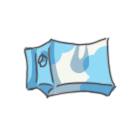
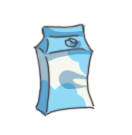
fixed ingredient usage behavior and uploaded new images

diff --git a/src/main/java/com/cafe/CafeSimulatorApp.java b/src/main/java/com/cafe/CafeSimulatorApp.java
@@ -112,7 +112,7 @@ public class CafeSimulatorApp extends Application {
         espressoCount.setTranslateY(120);
 
         javafx.scene.control.Label milkCount = new javafx.scene.control.Label();
-        milkCount.setTranslateX(-215);
+        milkCount.setTranslateX(-200);
         milkCount.setTranslateY(80);
 
         javafx.scene.control.Label matchaCount = new javafx.scene.control.Label();
@@ -123,6 +123,10 @@ public class CafeSimulatorApp extends Application {
         waterCount.setTranslateX(-130);
         waterCount.setTranslateY(20);
 
+        javafx.scene.control.Label sugarCount = new javafx.scene.control.Label();
+        sugarCount.setTranslateX(-280);
+        sugarCount.setTranslateY(110);
+
         Timeline gameLoop = new Timeline(new KeyFrame(Duration.seconds(1), e -> {
             gameManager.update();
             updateCustomerDisplay();
@@ -130,6 +134,7 @@ public class CafeSimulatorApp extends Application {
             milkCount.setText("milk: " + inventory.getIngredient("milk").getCurrentAmount());
             matchaCount.setText("matcha: " + inventory.getIngredient("matcha").getCurrentAmount());
             waterCount.setText("water: " + inventory.getIngredient("water").getCurrentAmount());
+            sugarCount.setText("sugar: " + inventory.getIngredient("sugar").getCurrentAmount());
         }));
         gameLoop.setCycleCount(Timeline.INDEFINITE);
         gameLoop.play();
@@ -239,7 +244,7 @@ public class CafeSimulatorApp extends Application {
         /* COFFEE */
         IngredientView coffeeView = new IngredientView("espresso", "coffeebeans.png", 300, 340, inventory, glow,
                 () -> audio.playCoffeeCrunch(),
-                () -> playerRecipe[0] += "espresso,",
+                () -> { playerRecipe[0] += "espresso,"; inventory.useIngredient("espresso"); },
                 () -> showError("Espresso is out! Please refill to use!"));
         coffeeView.getImageView().setTranslateX(110);
         coffeeView.getImageView().setTranslateY(60);
@@ -247,20 +252,20 @@ public class CafeSimulatorApp extends Application {
         coffeeView.getProgressBar().setTranslateY(90);
 
         /* MILK */
-        IngredientView milkView = new IngredientView("milk", "milk.png", 280, 320, inventory, glow,
+        IngredientView milkView = new IngredientView("milk", "milk.png", 150, 150, inventory, glow,
                 () -> audio.playMilk(),
-                () -> playerRecipe[0] += "milk,",
+                () -> { playerRecipe[0] += "milk,"; inventory.useIngredient("milk"); },
                 () -> showError("Milk is out! Please refill to use!"));
-        milkView.getImageView().setTranslateX(-215);
+        milkView.getImageView().setTranslateX(-200);
         milkView.getImageView().setTranslateY(20);
         milkView.getProgressBar().setTranslateX(-215);
         milkView.getProgressBar().setTranslateY(50);
 
 
         /* SUGAR */
-        IngredientView sugarView = new IngredientView("sugar", "SugarBowl.png", 200, 200, inventory, glow,
+        IngredientView sugarView = new IngredientView("sugar", "sugar.png", 200, 200, inventory, glow,
                 () -> audio.playSugarBagSound(),
-                () -> playerRecipe[0] += "sugar,",
+                () -> { playerRecipe[0] += "sugar,"; inventory.useIngredient("sugar"); },
                 () -> showError("Sugar is out! Please refill to use!"));
         sugarView.getImageView().setTranslateX(-280);
         sugarView.getImageView().setTranslateY(80);
@@ -270,7 +275,7 @@ public class CafeSimulatorApp extends Application {
         /* MATCHA */
         IngredientView matchaView = new IngredientView("matcha", "matchafull.png", 280, 340, inventory, glow,
                 () -> audio.playMatchaCrunch(),
-                () -> playerRecipe[0] += "matcha,",
+                () -> { playerRecipe[0] += "matcha,"; inventory.useIngredient("matcha"); },
                 () -> showError("Matcha is out! Please refill to use!"));
         matchaView.getImageView().setTranslateX(260);
         matchaView.getImageView().setTranslateY(70);
@@ -281,7 +286,7 @@ public class CafeSimulatorApp extends Application {
 
         IngredientView waterView = new IngredientView("water", "waterfull.png", 150, 180, inventory, glow,
                 () -> audio.playWater(),
-                () -> playerRecipe[0] += "water,",
+                () -> { playerRecipe[0] += "water,"; inventory.useIngredient("water"); },
                 () -> showError("Water is out! Please refill to use!"));
         waterView.getImageView().setTranslateX(-130);
         waterView.getImageView().setTranslateY(-40);
@@ -377,7 +382,7 @@ public class CafeSimulatorApp extends Application {
         serveBtn.setVisible(false);
         refillBtn.setVisible(false);
         
-     // 1. Create Image Buttons with matching sizes
+     // Create Image Buttons with matching sizes
         ImageView refillIcon = new ImageView(ImageLoader.load("refill.png", 195, 195));
         refillIcon.setTranslateX(380); 
         refillIcon.setTranslateY(-400);
@@ -388,7 +393,7 @@ public class CafeSimulatorApp extends Application {
         serveIcon.setTranslateY(-330); 
         serveIcon.setPickOnBounds(true);
 
-        // 2. Setup the Smile Icon
+        // Setup the Smile Icon
         satisfactionView = new ImageView(ImageLoader.load("smile.png", 150, 150));
         satisfactionView.setTranslateX(-375); // Positioned over the bear
         satisfactionView.setTranslateY(-360); 
@@ -406,11 +411,11 @@ public class CafeSimulatorApp extends Application {
 
                 String recipe = playerRecipe[0].replaceAll(",$", "");
                 boolean success = gameManager.serveCustomer(current, recipe);
-                coffeeView.getImageView().setImage(ImageLoader.load(inventory.getIngredient("espresso").getImagePath(), 300, 340));
-                milkView.getImageView().setImage(ImageLoader.load(inventory.getIngredient("milk").getImagePath(), 280, 320));
-                sugarView.getImageView().setImage(ImageLoader.load(inventory.getIngredient("sugar").getImagePath(), 200, 200));
-                matchaView.getImageView().setImage(ImageLoader.load(inventory.getIngredient("matcha").getImagePath(), 280, 340));
-                waterView.getImageView().setImage(ImageLoader.load(inventory.getIngredient("water").getImagePath(), 150, 180));
+                coffeeView.refreshImage();
+                milkView.refreshImage();
+                sugarView.refreshImage();
+                matchaView.refreshImage();
+                waterView.refreshImage();
                 playerRecipe[0] = "";
                 updateCustomerDisplay();
             }
@@ -418,7 +423,7 @@ public class CafeSimulatorApp extends Application {
 
      	// 3. Add them to the root - extra ones
      	root.getChildren().addAll(refillIcon, serveIcon, satisfactionView);
-        root.getChildren().addAll(espressoCount, milkCount, matchaCount, waterCount);
+        root.getChildren().addAll(espressoCount, milkCount, matchaCount, waterCount, sugarCount);
      	
      	
         root.setStyle("-fx-background-color: #FFCC80;");

diff --git a/src/main/java/com/cafe/managers/InventoryManager.java b/src/main/java/com/cafe/managers/InventoryManager.java
@@ -15,10 +15,10 @@ public class InventoryManager {
     }
 
     public void initialize(){
-        ingredients.put("milk", new Ingredient("milk", 3, "milk.png", "milk.png"));
+        ingredients.put("milk", new Ingredient("milk", 3, "milk.png", "milk_empty.png"));
         ingredients.put("espresso", new Ingredient("espresso", 3, "coffeebeans.png", "coffeebeans.png"));
         ingredients.put("cups", new Ingredient("cups", 99999999, "Cups_rack.png", "Cups_rack.png"));
-        ingredients.put("sugar", new Ingredient("sugar", 5, "SugarBowl.png", "SugarBowl.png"));
+        ingredients.put("sugar", new Ingredient("sugar", 5, "sugar.png", "sugar.png"));
         ingredients.put("water", new Ingredient("water", 3, "waterfull.png", "water_empty.png"));
         ingredients.put("matcha", new Ingredient("matcha", 3, "matchafull.png", "matcha_empty.png"));
     }

diff --git a/src/main/java/com/cafe/utils/IngredientView.java b/src/main/java/com/cafe/utils/IngredientView.java
@@ -50,6 +50,7 @@ public class IngredientView {
             if (onClickSound != null) onClickSound.run();
 
             if (onIngredientUsed != null) onIngredientUsed.run();
+            refreshImage();
         });
 
         progressBar = new ProgressBar(0);
@@ -80,4 +81,8 @@ public class IngredientView {
 
     public ImageView getImageView() { return imageView; }
     public ProgressBar getProgressBar() { return progressBar; }
+
+    public void refreshImage() {
+        imageView.setImage(ImageLoader.load(inventory.getIngredient(inventoryKey).getImagePath(), width, height));
+    }
 }

diff --git a/src/main/java/com/cafe/managers/GameManager.java b/src/main/java/com/cafe/managers/GameManager.java
@@ -75,7 +75,7 @@ public class GameManager {
         java.util.Arrays.sort(customerIngredients);
         java.util.Arrays.sort(playerIngredients);
 
-        inventoryManager.useIngredients(playerRecipe);
+        //inventoryManager.useIngredients(playerRecipe);
 
         if (!java.util.Arrays.equals(customerIngredients, playerIngredients)) {
             customer.setPatience(0);
